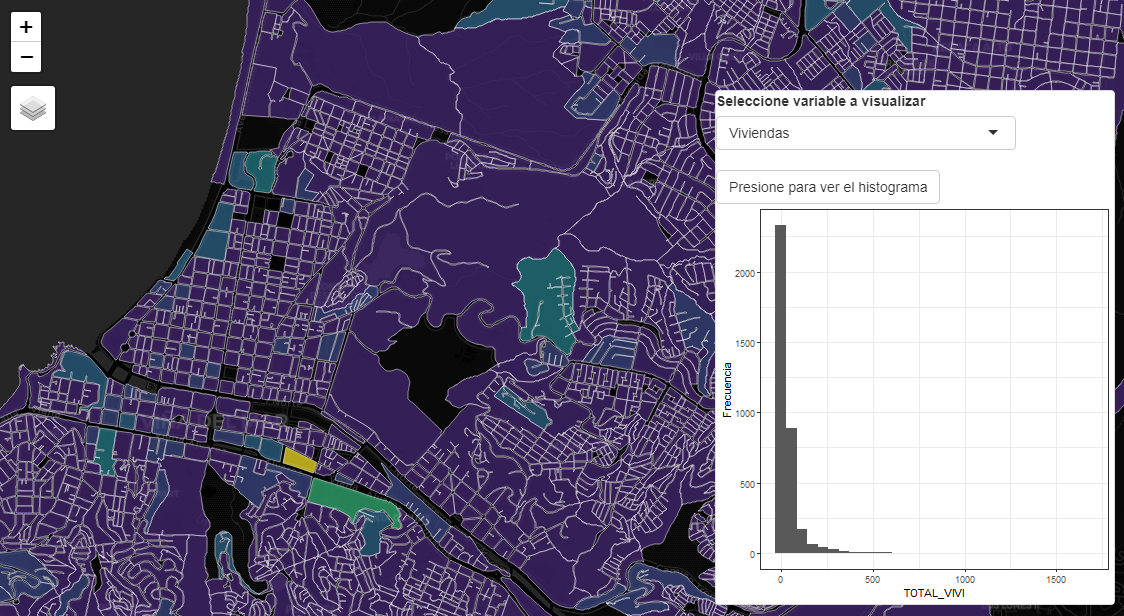
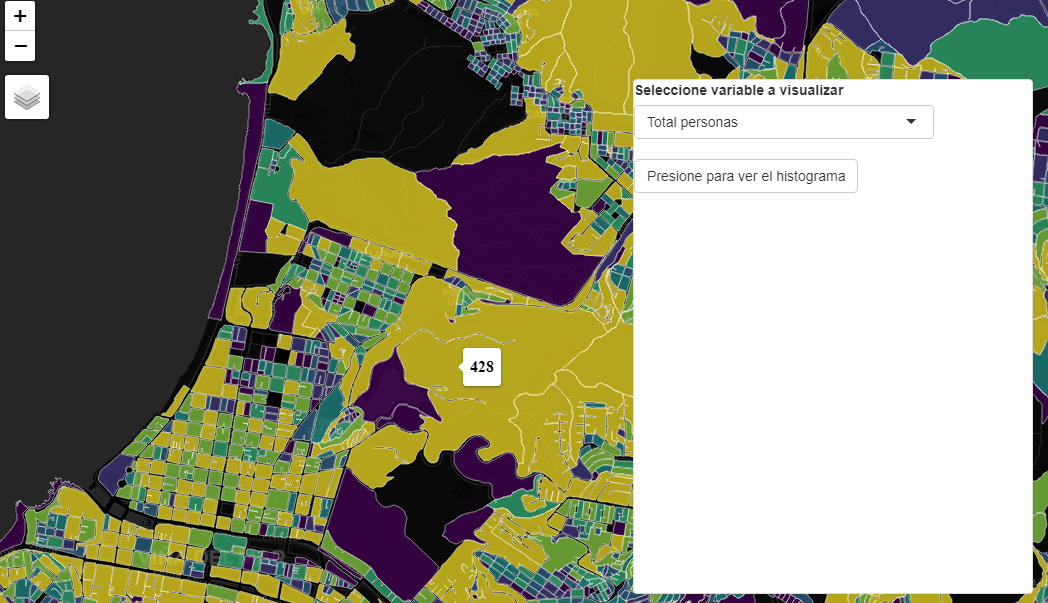
update map events

diff --git a/geo459/clase9/09_map_events.html b/geo459/clase9/09_map_events.html
@@ -152,6 +152,29 @@ class: middle
 
 ]
 .footnote[El resultado es bastante similar]
+
+---
+#¿Podemos mejorar el estilo del texto?
+
+--
+- Con algo de código HTML y la función `labelOptions()`
+
+--
+
+```r
+addPolygons(data = shp,group = 'Manzanas', fillColor = ~pal(PERSONAS), fillOpacity = 0.7,
+                    stroke = 0.1,color = 'white',weight = 1, smoothFactor = 0.2, 
+                    label = ~htmlEscape(PERSONAS),
+                    labelOptions = labelOptions(style = list("color" = "black", 
+                                                             "font-size" = "16px",
+                                                             "font-family" = "serif",
+                                                             "font-weight" = "bold"))
+            ) 
+```
+---
+.center[
+![](app3.png)
+]
 ---
 class: inverse,center, middle
 
